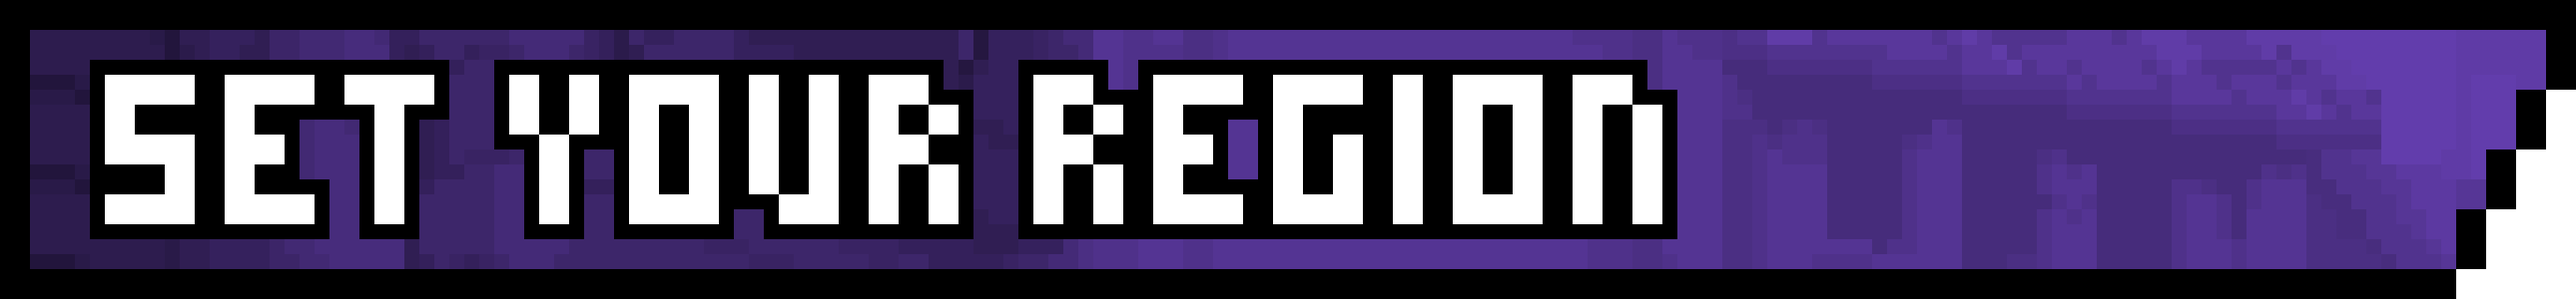
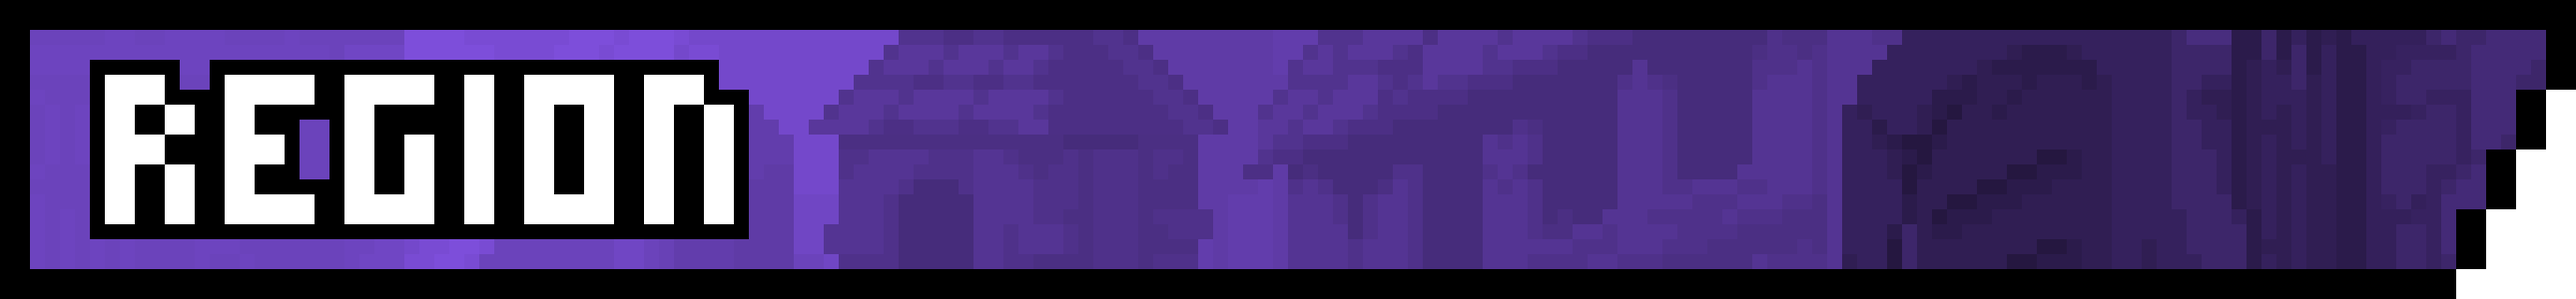
SET YOUR ROLES

diff --git a/cogs/roles.py b/cogs/roles.py
@@ -8,7 +8,7 @@ from helpers import helpers
 
 
 class Roles(commands.Cog):
-    """Add and remove roles from users, and update mentor database to reflect changes."""
+    """Add and remove roles from users."""
 
     def __init__(self, bot):
         self.bot = bot
@@ -103,75 +103,82 @@ class Roles(commands.Cog):
     @commands.Cog.listener()
     async def on_raw_reaction_add(self, payload):
         """Give member character, region, undergrad, or student role on reaction."""
-        # Ignore non-Academy servers
-        ACADEMY_ID = 252352512332529664
-        TEST_SERVER_ID = 475599187812155392
-        if payload.guild_id not in [ACADEMY_ID, TEST_SERVER_ID]: return
         # Ignore reactions from Mentorbot
         if (user_id := payload.user_id) == self.bot.user.id: return
-        # Ensure set-your-roles channel
+        # Ensure set-your-roles channel name
         guild = self.bot.get_guild(payload.guild_id)
         channel = discord.utils.get(guild.text_channels, id=payload.channel_id)
         if channel.name != 'set-your-roles': return
-        # Add/remove roles
+        # Setup
         user = self.bot.get_user(user_id)
         member = guild.get_member(user_id)
         message = await channel.fetch_message(payload.message_id)
         guild_roles = guild.roles
-        emote = payload.emoji.name
-        # Main
-        if 'main' in message.content:
-            for reaction in message.reactions:
-                character = reaction.emoji.name
-                main_role = discord.utils.get(guild_roles, name=f'{character} (Main)')
-                if character == emote:
-                    # Remove secondary role of main being added
-                    secondary_role = discord.utils.get(guild_roles, name=character)
-                    if secondary_role in member.roles:
+        emote = f'<:{payload.emoji.name}:{payload.emoji.id}>'
+        if message.attachments:
+            img = message.attachments[0].filename
+            # Main
+            if img == 'main.png':
+                for character, info in rivals.characters.items():
+                    if info['emote'] == emote:
+                        main_role = discord.utils.get(guild_roles, name=f'{character} (Main)')
+                        await member.add_roles(main_role)
+                        secondary_role = discord.utils.get(guild_roles, name=character)
                         await member.remove_roles(secondary_role)
-                    # Add new main role
-                    await member.add_roles(main_role)
-                else:
-                    # Remove previous main role
-                    if main_role in member.roles:
+            # Secondaries
+            elif img == 'secondaries.png':
+                for character, info in rivals.characters.items():
+                    if info['emote'] == emote:
+                        secondary_role = discord.utils.get(guild_roles, name=character)
+                        await member.add_roles(secondary_role)
+                        main_role = discord.utils.get(guild_roles, name=f'{character} (Main)')
                         await member.remove_roles(main_role)
-                    # Remove previous main reaction
-                    if user in await reaction.users().flatten():
-                        await reaction.remove(user)
-        # Secondaries
-        elif 'secondaries' in message.content:
-            main_role = discord.utils.get(guild_roles, name=f'{emote} (Main)')
-            if main_role not in member.roles:
-                await member.add_roles(discord.utils.get(guild_roles, name=emote))
         # Region
-        elif 'set your region' in message.content:
-            # Remove previous region roles
-            regions = [discord.utils.get(guild_roles, name=region) for region in
-                      rivals.regions]
-            await member.remove_roles(*[role for role in regions if role in member.roles])
-            # Add new region role
-            await member.add_roles(discord.utils.get(guild_roles, name=emote))
-            for reaction in message.reactions:
-                region = reaction.emoji.name
-                region_role = discord.utils.get(guild_roles, name=region)
-                if region == emote:
-                    # Add new region role
-                    await member.add_roles(region_role)
-                else:
-                    # Remove previous region role
-                    if region_role in member.roles:
-                        await member.remove_roles(region_role)
-                    # Remove previous region reaction
-                    if user in await reaction.users().flatten():
-                        await reaction.remove(user)
+        elif 'West Coast' in message.content:
+            for region, info in rivals.regions.items():
+                if info['emote'] == emote:
+                    await member.add_roles(discord.utils.get(guild_roles, name=region))
+        # Pronouns
+        elif 'he/him' in message.content:
+            if emote == '<:he_him:817651606384017419>':
+                pronoun = 'he/him'
+            elif emote == '<:they_them:817651606396469269>':
+                pronoun = 'they/them'
+            elif emote == '<:she_her:817651606685483008>':
+                pronoun = 'she/her'
+            elif emote == '<:any_pronouns:817651606270902293>':
+                pronoun = 'any pronouns'
+            await member.add_roles(discord.utils.get(guild_roles, name=pronoun))
+        # Ignore non-Academy servers past this point
+        ACADEMY_ID = 252352512332529664
+        TEST_SERVER_ID = 475599187812155392
+        if payload.guild_id not in [ACADEMY_ID, TEST_SERVER_ID]: return
+        # Matchmaking
+        elif 'Matchmaking' in message.content:
+            # PC
+            if emote == '<:PCMatchmaking:817627642143703041>':
+                role = 'Matchmaking (PC)'
+            elif emote == '<:PCNewbieMatchmaking:817627666131845131>':
+                role = 'Newbie Matchmaking (PC)'
+            # Switch
+            elif emote == '<:SwitchMatchmaking:758087700363477074>':
+                role = 'Matchmaking (Switch)'
+            elif emote == '<:SwitchNewbieMatchmaking:758087700468465725>':
+                role = 'Newbie Matchmaking (Switch)'
+            # Xbox
+            elif emote == '<:XboxMatchmaking:758087700405551175>':
+                role = 'Matchmaking (Xbox)'
+            elif emote == '<:XboxNewbieMatchmaking:758087700309082182>':
+                role = 'Newbie Matchmaking (Xbox)'
+            await member.add_roles(discord.utils.get(guild_roles, name=role))
         # RAS
         elif 'amateur' in message.content:
-            if emote == 'NorthAmerica':
+            if emote == '<:NorthAmerica:547189311527845907>':
                 await member.add_roles(discord.utils.get(guild_roles, name='Undergrad'))
-            elif emote == 'Europe':
+            elif emote == '<:Europe:547189473432305665>':
                 await member.add_roles(discord.utils.get(guild_roles, name='amatEUr'))
         # Enrollment
-        elif emote == 'roaa':
+        elif emote == '<:roaa:547193418560962570>':
             student = discord.utils.get(guild_roles, name='Student')
             if student not in member.roles:
                 await member.add_roles(student)
@@ -185,118 +192,137 @@ class Roles(commands.Cog):
                 embed.set_footer(text=f'ID: {payload.user_id}')
                 action_log = discord.utils.get(guild.text_channels, name='action-log')
                 await action_log.send(embed=embed)
-        # Matchmaking
-        elif 'Want to be notified by' in message.content:
-            # Steam
-            if emote == 'SteamMatchmaking':
-                role = 'Matchmaking (Steam)'
-            elif emote == 'SteamNewbieMatchmaking':
-                role = 'Newbie Matchmaking (Steam)'
-            # Switch
-            elif emote == 'SwitchMatchmaking':
-                role = 'Matchmaking (Switch)'
-            elif emote == 'SwitchNewbieMatchmaking':
-                role = 'Newbie Matchmaking (Switch)'
-            # Xbox
-            elif emote == 'XboxMatchmaking':
-                role = 'Matchmaking (Xbox)'
-            elif emote == 'XboxNewbieMatchmaking':
-                role = 'Newbie Matchmaking (Xbox)'
-            await member.add_roles(discord.utils.get(guild_roles, name=role))
 
     @commands.Cog.listener()
     async def on_raw_reaction_remove(self, payload):
         """Remove member's character, region, or undergrad role on reaction remove."""
-        # Ignore non-Academy servers
-        ACADEMY_ID = 252352512332529664
-        TEST_SERVER_ID = 475599187812155392
-        if payload.guild_id not in [ACADEMY_ID, TEST_SERVER_ID]: return
-        # Ensure set-your-roles channel
+        # Ignore reactions from Mentorbot
+        if (user_id := payload.user_id) == self.bot.user.id: return
+        # Ensure set-your-roles channel name
         guild = self.bot.get_guild(payload.guild_id)
         channel = discord.utils.get(guild.text_channels, id=payload.channel_id)
         if channel.name != 'set-your-roles': return
-        # Remove roles
-        member = guild.get_member(payload.user_id)
+        # Setup
+        user = self.bot.get_user(user_id)
+        member = guild.get_member(user_id)
         message = await channel.fetch_message(payload.message_id)
         guild_roles = guild.roles
-        emote = payload.emoji.name
-        # Main
-        if 'main' in message.content:
-            await member.remove_roles(discord.utils.get(guild_roles, name=f'{emote} (Main)'))
-        # Secondaries
-        elif 'secondaries' in message.content:
-            await member.remove_roles(discord.utils.get(guild_roles, name=emote))
-        # RAS
-        elif 'amateur' in message.content:
-            if emote == 'NorthAmerica':
-                await member.remove_roles(discord.utils.get(guild_roles, name='Undergrad'))
-            elif emote == 'Europe':
-                await member.remove_roles(discord.utils.get(guild_roles, name='amatEUr'))
+        emote = f'<:{payload.emoji.name}:{payload.emoji.id}>'
+        if message.attachments:
+            img = message.attachments[0].filename
+            # Main
+            if img == 'main.png':
+                for character, info in rivals.characters.items():
+                    if info['emote'] == emote:
+                        main_role = discord.utils.get(guild_roles, name=f'{character} (Main)')
+                        await member.remove_roles(main_role)
+            # Secondaries
+            elif img == 'secondaries.png':
+                for character, info in rivals.characters.items():
+                    if info['emote'] == emote:
+                        secondary_role = discord.utils.get(guild_roles, name=character)
+                        await member.remove_roles(secondary_role)
+        # Region
+        elif 'West Coast' in message.content:
+            for region, info in rivals.regions.items():
+                if info['emote'] == emote:
+                    await member.remove_roles(discord.utils.get(guild_roles, name=region))
+        # Pronouns
+        elif 'he/him' in message.content:
+            if emote == '<:he_him:817651606384017419>':
+                pronoun = 'he/him'
+            elif emote == '<:they_them:817651606396469269>':
+                pronoun = 'they/them'
+            elif emote == '<:she_her:817651606685483008>':
+                pronoun = 'she/her'
+            elif emote == '<:any_pronouns:817651606270902293>':
+                pronoun = 'any pronouns'
+            await member.remove_roles(discord.utils.get(guild_roles, name=pronoun))
+        # Ignore non-Academy servers past this point
+        ACADEMY_ID = 252352512332529664
+        TEST_SERVER_ID = 475599187812155392
+        if payload.guild_id not in [ACADEMY_ID, TEST_SERVER_ID]: return
         # Matchmaking
-        elif 'Want to be notified by' in message.content:
-            # Steam
-            if emote == 'SteamMatchmaking':
-                role = 'Matchmaking (Steam)'
-            elif emote == 'SteamNewbieMatchmaking':
-                role = 'Newbie Matchmaking (Steam)'
+        elif 'Matchmaking' in message.content:
+            # PC
+            if emote == '<:PCMatchmaking:817627642143703041>':
+                role = 'Matchmaking (PC)'
+            elif emote == '<:PCNewbieMatchmaking:817627666131845131>':
+                role = 'Newbie Matchmaking (PC)'
             # Switch
-            elif emote == 'SwitchMatchmaking':
+            elif emote == '<:SwitchMatchmaking:758087700363477074>':
                 role = 'Matchmaking (Switch)'
-            elif emote == 'SwitchNewbieMatchmaking':
+            elif emote == '<:SwitchNewbieMatchmaking:758087700468465725>':
                 role = 'Newbie Matchmaking (Switch)'
             # Xbox
-            elif emote == 'XboxMatchmaking':
+            elif emote == '<:XboxMatchmaking:758087700405551175>':
                 role = 'Matchmaking (Xbox)'
-            elif emote == 'XboxNewbieMatchmaking':
+            elif emote == '<:XboxNewbieMatchmaking:758087700309082182>':
                 role = 'Newbie Matchmaking (Xbox)'
             await member.remove_roles(discord.utils.get(guild_roles, name=role))
+        # RAS
+        elif 'amateur' in message.content:
+            if emote == '<:NorthAmerica:547189311527845907>':
+                await member.remove_roles(discord.utils.get(guild_roles, name='Undergrad'))
+            elif emote == '<:Europe:547189473432305665>':
+                await member.remove_roles(discord.utils.get(guild_roles, name='amatEUr'))
 
-    @commands.command(name='setyourroles')
+    @commands.command(name='setyourroles', aliases=['set-your-roles'])
     @helpers.in_channel('set-your-roles')
-    @helpers.in_academy()
-    @commands.is_owner()
+    @commands.has_permissions(administrator=True)
     async def set_your_roles_channel_setup(self, ctx):
         """Send and react to messages to set up role reaction system channel."""
+        ACADEMY_ID = 252352512332529664
+        TEST_SERVER_ID = 475599187812155392
+        emojis = self.bot.get_guild(TEST_SERVER_ID).emojis
         # Delete message of command
         await ctx.message.delete()
         # Introduction
         await ctx.send(
-            f'Hello! Welcome to the **{ctx.guild.name}!**\n\n'
+            'Hello! Welcome to the **Rivals of Aether Academy!**\n\n'
             '• **Please add reactions below to set your main, secondaries, and region.**\n'
             '• Reacting too quickly may cause the bot to fail in adding/removing roles.\n'
             '• You might need to react and unreact for the role to be added properly.')
         # Main
-        await ctx.send(file=discord.File('images/setyourroles/main.png'))
-        msg = await ctx.send(
-            '• **Click on a character reaction below to set your main.**\n'
-            '• Click on the reaction again to remove a main.\n'
-            '• You may only have one main character.')
+        msg = await ctx.send(file=discord.File('images/setyourroles/main.png'))
         for character in rivals.characters:
-            await msg.add_reaction(
-                discord.utils.get(self.bot.emojis, name=character.replace(' ', '')))
+            await msg.add_reaction(discord.utils.get(emojis, name=character.replace(' ', '')))
         # Secondaries
-        await ctx.send(file=discord.File('images/setyourroles/secondaries.png'))
-        msg = await ctx.send(
-            '• **Click on a character reaction below to add a secondary.**\n'
-            '• Click on the reaction again to remove a secondary.\n'
-            '• You may have multiple secondaries.')
+        msg = await ctx.send(file=discord.File('images/setyourroles/secondaries.png'))
         for character in rivals.characters:
-            await msg.add_reaction(
-                discord.utils.get(self.bot.emojis, name=character.replace(' ', '')))
+            await msg.add_reaction(discord.utils.get(emojis, name=character.replace(' ', '')))
         # Region
         await ctx.send(file=discord.File('images/setyourroles/region.png'))
         msg = await ctx.send(
-            '• **Click on a region reaction below to set your region.**\n'
-            '<:WestCoast:547189520781803530> → West Coast\n'
-            '<:Midwest:547189509272633355> → Midwest\n'
-            '<:EastCoast:547189489861132308> → East Coast\n'
-            '<:Europe:547189473432305665> → Europe\n'
-            '<:Australia:547189427416596502> → Australia\n'
-            '<:SouthAmerica:547189406902124595> → South America\n'
-            '<:Asia:547189391399976980> → Asia\n'
-            '<:Africa:547189379605725225> → Africa')
+            '\n'.join([f'{info["emote"]} → {region}' for region, info in rivals.regions.items()]))
         for region in rivals.regions:
-            await msg.add_reaction(discord.utils.get(self.bot.emojis, name=region))
+            await msg.add_reaction(discord.utils.get(emojis, name=region.replace(' ', '')))
+        # Pronouns
+        await ctx.send(file=discord.File('images/setyourroles/pronouns.png'))
+        msg = await ctx.send(
+            '<:he_him:817651606384017419> → `he/him`\n'
+            '<:they_them:817651606396469269> → `they/them`\n'
+            '<:she_her:817651606685483008> → `she/her`\n'
+            '<:any_pronouns:817651606270902293> → `any pronouns`')
+        for emote in (['he_him', 'they_them', 'she_her', 'any_pronouns']):
+            await msg.add_reaction(discord.utils.get(emojis, name=emote))
+        # Stop here in non-Academy servers
+        if ctx.message.guild.id not in [ACADEMY_ID, TEST_SERVER_ID]: return
+        # Matchmaking
+        await ctx.send(file=discord.File('images/setyourroles/matchmaking.png'))
+        msg = await ctx.send(
+            # Steam
+            '<:PCMatchmaking:817627642143703041> → Matchmaking (PC)\n'
+            '<:PCNewbieMatchmaking:817627666131845131> → Newbie Matchmaking (PC)\n'
+            # Switch
+            '<:SwitchMatchmaking:758087700363477074> → Matchmaking (Switch)\n'
+            '<:SwitchNewbieMatchmaking:758087700468465725> → Newbie Matchmaking (Switch)\n'
+            # Xbox
+            '<:XboxMatchmaking:758087700405551175> → Matchmaking (Xbox)\n'
+            '<:XboxNewbieMatchmaking:758087700309082182> → Newbie Matchmaking (Xbox)')
+        for emote in (['PCMatchmaking', 'PCNewbieMatchmaking', 'SwitchMatchmaking', 
+                     'SwitchNewbieMatchmaking', 'XboxMatchmaking', 'XboxNewbieMatchmaking']):
+            await msg.add_reaction(discord.utils.get(emojis, name=emote))
         # RAS
         await ctx.send(file=discord.File('images/setyourroles/ras.png'))
         msg = await ctx.send(
@@ -306,39 +332,14 @@ class Roles(commands.Cog):
             '<:NorthAmerica:547189311527845907> → North America\n'
             '<:Europe:547189473432305665> → Europe')
         for region in ['NorthAmerica', 'Europe']:
-            await msg.add_reaction(discord.utils.get(self.bot.emojis, name=region))
+            await msg.add_reaction(discord.utils.get(emojis, name=region))
         # Enroll
         await ctx.send(file=discord.File('images/setyourroles/enroll.png'))
         msg = await ctx.send(
             '• **Is this the only channel you can see?**\n'
             '• Click the <:roaa:547193418560962570> reaction below to enroll in the '
             'server and view the rest of the channels!')
-        await msg.add_reaction(discord.utils.get(self.bot.emojis, name='roaa'))
-
-    @commands.command(name='setyourrolesmatchmaking')
-    @helpers.in_channel('set-your-roles')
-    @helpers.in_academy()
-    @commands.is_owner()
-    async def set_your_roles_matchmaking_setup(self, ctx):
-        """Send and react to message to add matchmaking in #set-your-roles."""
-        await ctx.message.delete()  # Delete message of command
-        await ctx.send(file=discord.File('images/setyourroles/matchmaking.png'))
-        msg = await ctx.send(
-            '• **Want to be notified by matchmaking pings? Click on a reaction below.**\n'
-            '• Click on the reaction again to opt out of notifications.\n'
-            # Steam
-            '<:SteamMatchmaking:758087699990315020> → Matchmaking (Steam)\n'
-            '<:SteamNewbieMatchmaking:758087700237778994> → Newbie Matchmaking (Steam)\n'
-            # Switch
-            '<:SwitchMatchmaking:758087700363477074> → Matchmaking (Switch)\n'
-            '<:SwitchNewbieMatchmaking:758087700468465725> → Newbie Matchmaking (Switch)\n'
-            # Xbox
-            '<:XboxMatchmaking:758087700405551175> → Matchmaking (Xbox)\n'
-            '<:XboxNewbieMatchmaking:758087700309082182> → Newbie Matchmaking (Xbox)')
-        # Add reactions to msg
-        for emote in (['SteamMatchmaking', 'SteamNewbieMatchmaking', 'SwitchMatchmaking', 
-                     'SwitchNewbieMatchmaking', 'XboxMatchmaking', 'XboxNewbieMatchmaking']):
-            await msg.add_reaction(discord.utils.get(self.bot.emojis, name=emote))
+        await msg.add_reaction(discord.utils.get(emojis, name='roaa'))
 
 
 def setup(bot):
